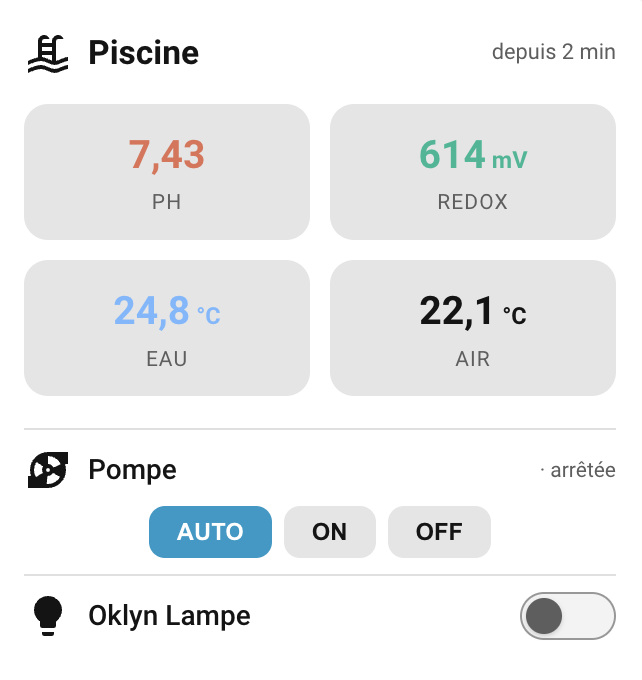
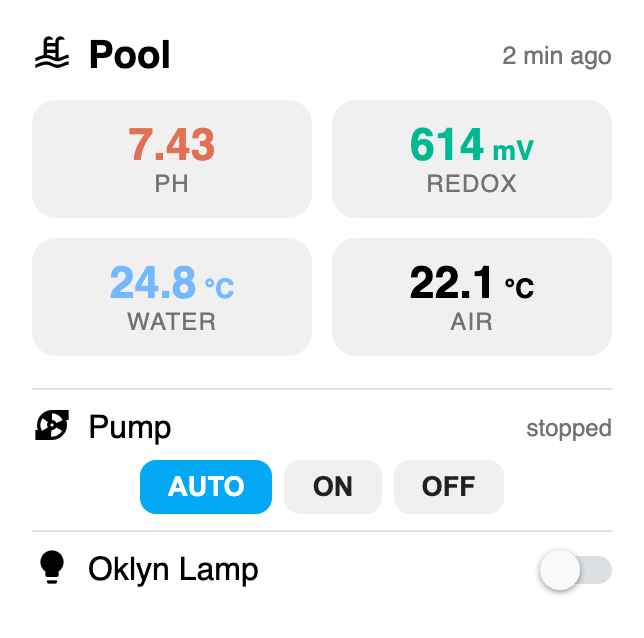
docs: localized screenshots (EN + FR)

diff --git a/README.fr.md b/README.fr.md
@@ -19,7 +19,7 @@ Multilingue (11 langues : FR, EN, DE, ES, IT, NL, SV, NO, DA, PL, RU) — suit a
 
 > 🇬🇧 [Read in English](README.md)
 
-![Capture Oklyn Card](https://raw.githubusercontent.com/ADNPolymerase/oklyn-card/main/docs/card.png)
+![Capture Oklyn Card](https://raw.githubusercontent.com/ADNPolymerase/oklyn-card/main/docs/card.fr.png)
 
 ## Fonctionnalités
 